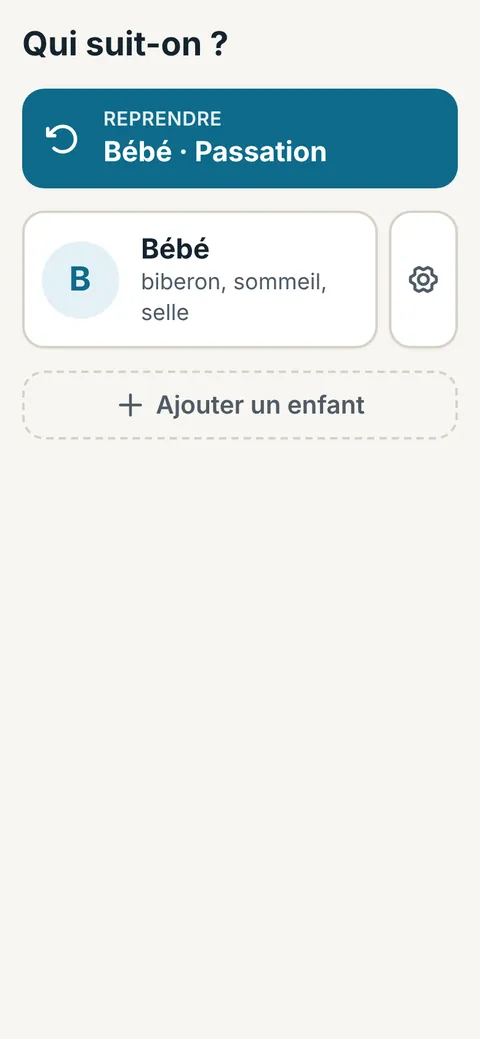
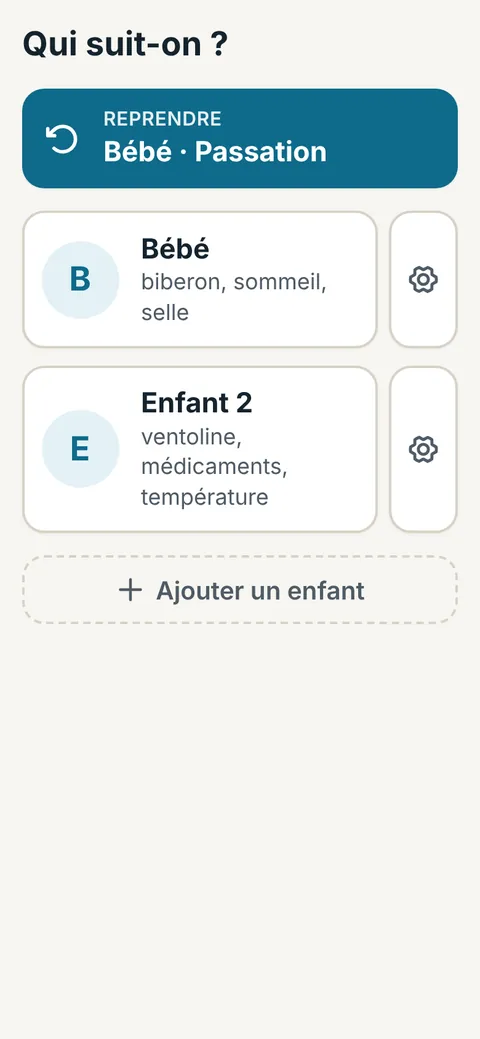
Passation : module Santé (exemple asthme) et 4 captures fictives
Protocole de crise, crise en cours, saisie Ventoline et médicament.
Accueil recapturé avec deux enfants.

Claude-Session: https://claude.ai/code/session_01QvBUx8pA86QTG3LduaV8z9

diff --git a/projet online/odilon-corby-cv.html b/projet online/odilon-corby-cv.html
@@ -1698,8 +1698,8 @@ page programmation
           </div>
           <div class="case-study-shots">
             <figure class="case-study-shot">
-              <a href="img/passation-01-accueil.webp" target="_blank" rel="noreferrer"><img src="img/passation-01-accueil.webp" alt="Accueil de Passation : « Qui suit-on ? », bouton Reprendre, une carte enfant sans prénom avec ses suivis biberon, sommeil, selle" width="480" height="1039" loading="lazy" decoding="async"></a>
-              <figcaption>Accueil : reprendre là où on s'était arrêté</figcaption>
+              <a href="img/passation-01-accueil.webp" target="_blank" rel="noreferrer"><img src="img/passation-01-accueil.webp" alt="Accueil de Passation : « Qui suit-on ? », bouton Reprendre, deux enfants sans prénom, l'un suivi en Passation (biberon, sommeil, selle), l'autre en Santé (ventoline, médicaments, température)" width="480" height="1039" loading="lazy" decoding="async"></a>
+              <figcaption>Accueil : un enfant, ses suivis à lui</figcaption>
             </figure>
             <figure class="case-study-shot">
               <a href="img/passation-02-maintenant.webp" target="_blank" rel="noreferrer"><img src="img/passation-02-maintenant.webp" alt="Écran Maintenant : « Depuis le dernier... » avec la durée depuis le dernier biberon et depuis le réveil, gros boutons Biberon et Sommeil en bas d'écran" width="480" height="1039" loading="lazy" decoding="async"></a>
@@ -1713,6 +1713,22 @@ page programmation
               <a href="img/passation-04-resume.webp" target="_blank" rel="noreferrer"><img src="img/passation-04-resume.webp" alt="Journée : résumé du jour en texte (biberons, selles, sommeil avec durées) et bouton Copier en texte" width="480" height="1039" loading="lazy" decoding="async"></a>
               <figcaption>Journée : le résumé se copie en texte</figcaption>
             </figure>
+            <figure class="case-study-shot">
+              <a href="img/passation-05-protocole.webp" target="_blank" rel="noreferrer"><img src="img/passation-05-protocole.webp" alt="Éditeur du protocole de crise : nom du scénario, bouffées, intervalle en minutes, consigne libre, avec des valeurs fictives" width="480" height="1039" loading="lazy" decoding="async"></a>
+              <figcaption>Santé : protocole recopié du PAI (fictif)</figcaption>
+            </figure>
+            <figure class="case-study-shot">
+              <a href="img/passation-06-crise.webp" target="_blank" rel="noreferrer"><img src="img/passation-06-crise.webp" alt="Crise en cours depuis 35 min : heure prévue de la prochaine prise, dernière prise, bouffées notées, palier du protocole saisi, boutons Ventoline, Médicament, Température, Fin de crise" width="480" height="1039" loading="lazy" decoding="async"></a>
+              <figcaption>Crise en cours : prochaine prise, palier saisi</figcaption>
+            </figure>
+            <figure class="case-study-shot">
+              <a href="img/passation-07-ventoline.webp" target="_blank" rel="noreferrer"><img src="img/passation-07-ventoline.webp" alt="Panneau Ventoline : Maintenant, 2 bouffées sélectionnées, récapitulatif « Ventoline 2 bouffées à 17h40 » et bouton Confirmer" width="480" height="1039" loading="lazy" decoding="async"></a>
+              <figcaption>Ventoline : bouffées, à confirmer</figcaption>
+            </figure>
+            <figure class="case-study-shot">
+              <a href="img/passation-08-medicament.webp" target="_blank" rel="noreferrer"><img src="img/passation-08-medicament.webp" alt="Panneau d'un médicament fictif saisi par le parent : dose habituelle 5 ml, récapitulatif et bouton Confirmer" width="480" height="1039" loading="lazy" decoding="async"></a>
+              <figcaption>Médicament : fiche saisie par le parent</figcaption>
+            </figure>
           </div>
           <button class="case-study-toggle" aria-expanded="false" aria-controls="case-passation"><span class="case-study-label">[+] lire l'étude de cas</span></button>
           <div class="case-study-body" id="case-passation">
@@ -1724,7 +1740,7 @@ page programmation
               </div>
               <div class="case-study-detail">
                 <div class="case-study-detail-label">Ce que j'ai construit</div>
-                <p>Une PWA pour mon usage de parent : noter d'une main, relire la journée, la copier en texte pour l'autre parent. Un module Santé optionnel, pour un usage ponctuel : le parent y saisit un protocole de crise personnalisé (celui du PAI, par exemple) et note les prises, pour savoir pendant une crise ce qui a été donné et quand.</p>
+                <p>Une PWA pour mon usage de parent : noter d'une main, relire la journée, la copier en texte pour l'autre parent. Un module Santé optionnel, pour un usage ponctuel. Exemple : les crises d'asthme de ma fille. Le parent recopie le protocole du PAI, rien n'est prérempli. Pendant une crise, l'app affiche le temps écoulé, le palier en cours et l'heure prévue de la prochaine prise. Bouffées de Ventoline, médicaments et température se notent comme un biberon, avec un récapitulatif à confirmer.</p>
                 <p>Tout reste sur le téléphone. Pas de serveur, pas de compte, pas de traceur : des données sur un mineur n'ont rien à faire ailleurs. Sans synchro entre téléphones, le résumé de la journée se copie en texte.</p>
                 <p>Gros boutons dans la zone du pouce, cibles d'au moins 56 px, un seul thème clair à fort contraste pour lire au soleil.</p>
                 <p>L'app n'interprète rien. Pas de « mange peu », pas de seuil, pas de conseil médical. Elle note et calcule des durées.</p>
@@ -1734,7 +1750,7 @@ page programmation
               </div>
               <div class="case-study-detail">
                 <div class="case-study-detail-label">Impact</div>
-                <p>En ligne depuis le 21 octobre 2026, testée sur iPhone, en usage quotidien. Installable sur l'écran d'accueil, utilisable hors ligne. 233 tests automatisés. Le lien est ouvert à tous les parents : l'app s'ouvre vide, les données restent sur l'appareil de chacun.</p>
+                <p>En ligne depuis le 21 octobre 2026, testée sur iPhone, en usage quotidien. Installable sur l'écran d'accueil, utilisable hors ligne. 233 tests automatisés. Le lien est ouvert à tous les parents : l'app s'ouvre vide, les données restent sur l'appareil de chacun. Captures sur données fictives.</p>
               </div>
               <p class="case-study-stack"><span>stack</span> Claude Code · React 18 · Vite 7 · Tailwind CSS · PWA (vite-plugin-pwa) · Vitest · Cloudflare Pages</p>
               <a href="https://passation.pages.dev" target="_blank" rel="noreferrer" class="projet-link case-study-link">Voir l'app</a>

diff --git a/projet online/cv-data.js b/projet online/cv-data.js
@@ -174,17 +174,21 @@ window.CV = {
       teaser: "Ce que la crèche raconte en deux minutes au dépôt et à la récupération : noté d'une main, relu d'un coup d'œil, copié en texte pour l'autre parent.",
       impact: ['Aucun serveur : tout reste sur le téléphone', '233 tests automatisés'],
       shots: [
-        { src: 'img/passation-01-accueil.webp', alt: "Accueil de Passation : « Qui suit-on ? », bouton Reprendre, une carte enfant sans prénom avec ses suivis biberon, sommeil, selle", caption: "Accueil : reprendre là où on s'était arrêté" },
+        { src: 'img/passation-01-accueil.webp', alt: "Accueil de Passation : « Qui suit-on ? », bouton Reprendre, deux enfants sans prénom, l'un suivi en Passation (biberon, sommeil, selle), l'autre en Santé (ventoline, médicaments, température)", caption: "Accueil : un enfant, ses suivis à lui" },
         { src: 'img/passation-02-maintenant.webp', alt: "Écran Maintenant : « Depuis le dernier... » avec la durée depuis le dernier biberon et depuis le réveil, gros boutons Biberon et Sommeil en bas d'écran", caption: "Maintenant : « Depuis le dernier... », boutons sous le pouce" },
         { src: 'img/passation-03-biberon-recap.webp', alt: "Panneau Biberon : heure Maintenant choisie d'office, quantité 150 ml sélectionnée, récapitulatif « Biberon 150 ml à 17h40 » et bouton Confirmer", caption: "Biberon : un récapitulatif à confirmer" },
-        { src: 'img/passation-04-resume.webp', alt: "Journée : résumé du jour en texte (biberons, selles, sommeil avec durées) et bouton Copier en texte", caption: "Journée : le résumé se copie en texte" }
+        { src: 'img/passation-04-resume.webp', alt: "Journée : résumé du jour en texte (biberons, selles, sommeil avec durées) et bouton Copier en texte", caption: "Journée : le résumé se copie en texte" },
+        { src: 'img/passation-05-protocole.webp', alt: "Éditeur du protocole de crise : nom du scénario, bouffées, intervalle en minutes, consigne libre, avec des valeurs fictives", caption: "Santé : protocole recopié du PAI (fictif)" },
+        { src: 'img/passation-06-crise.webp', alt: "Crise en cours depuis 35 min : heure prévue de la prochaine prise, dernière prise, bouffées notées, palier du protocole saisi, boutons Ventoline, Médicament, Température, Fin de crise", caption: "Crise en cours : prochaine prise, palier saisi" },
+        { src: 'img/passation-07-ventoline.webp', alt: "Panneau Ventoline : Maintenant, 2 bouffées sélectionnées, récapitulatif « Ventoline 2 bouffées à 17h40 » et bouton Confirmer", caption: "Ventoline : bouffées, à confirmer" },
+        { src: 'img/passation-08-medicament.webp', alt: "Panneau d'un médicament fictif saisi par le parent : dose habituelle 5 ml, récapitulatif et bouton Confirmer", caption: "Médicament : fiche saisie par le parent" }
       ],
       probleme: [
         "Au dépôt et à la récupération, la crèche raconte la journée du bébé : biberons, sommeil, selles. Deux minutes, debout, un bébé dans un bras, parfois en plein soleil. Les infos sont orales, fragmentées, oubliées le soir.",
         "Ce moment juge chaque choix. Une fonctionnalité qui n'aide pas la passation sort."
       ],
       construit: [
-        "Une PWA pour mon usage de parent : noter d'une main, relire la journée, la copier en texte pour l'autre parent. Un module Santé optionnel, pour un usage ponctuel : le parent y saisit un protocole de crise personnalisé (celui du PAI, par exemple) et note les prises, pour savoir pendant une crise ce qui a été donné et quand.",
+        "Une PWA pour mon usage de parent : noter d'une main, relire la journée, la copier en texte pour l'autre parent. Un module Santé optionnel, pour un usage ponctuel. Exemple : les crises d'asthme de ma fille. Le parent recopie le protocole du PAI, rien n'est prérempli. Pendant une crise, l'app affiche le temps écoulé, le palier en cours et l'heure prévue de la prochaine prise. Bouffées de Ventoline, médicaments et température se notent comme un biberon, avec un récapitulatif à confirmer.",
         "Tout reste sur le téléphone. Pas de serveur, pas de compte, pas de traceur : des données sur un mineur n'ont rien à faire ailleurs. Sans synchro entre téléphones, le résumé de la journée se copie en texte.",
         "Gros boutons dans la zone du pouce, cibles d'au moins 56 px, un seul thème clair à fort contraste pour lire au soleil.",
         "L'app n'interprète rien. Pas de « mange peu », pas de seuil, pas de conseil médical. Elle note et calcule des durées.",
@@ -193,7 +197,7 @@ window.CV = {
         "Méthode : de petites tranches livrées et validées une à une, chaque décision notée et datée. Le code est écrit par Claude Code sous ma direction : je cadre, je tranche, je teste sur iPhone au quotidien."
       ],
       resultat: [
-        "En ligne depuis le 21 octobre 2026, testée sur iPhone, en usage quotidien. Installable sur l'écran d'accueil, utilisable hors ligne. 233 tests automatisés. Le lien est ouvert à tous les parents : l'app s'ouvre vide, les données restent sur l'appareil de chacun."
+        "En ligne depuis le 21 octobre 2026, testée sur iPhone, en usage quotidien. Installable sur l'écran d'accueil, utilisable hors ligne. 233 tests automatisés. Le lien est ouvert à tous les parents : l'app s'ouvre vide, les données restent sur l'appareil de chacun. Captures sur données fictives."
       ],
       stack: ['Claude Code', 'React 18', 'Vite 7', 'Tailwind CSS', 'PWA (vite-plugin-pwa)', 'Vitest', 'Cloudflare Pages'],
       link: { href: 'https://passation.pages.dev', label: "Voir l'app" }
